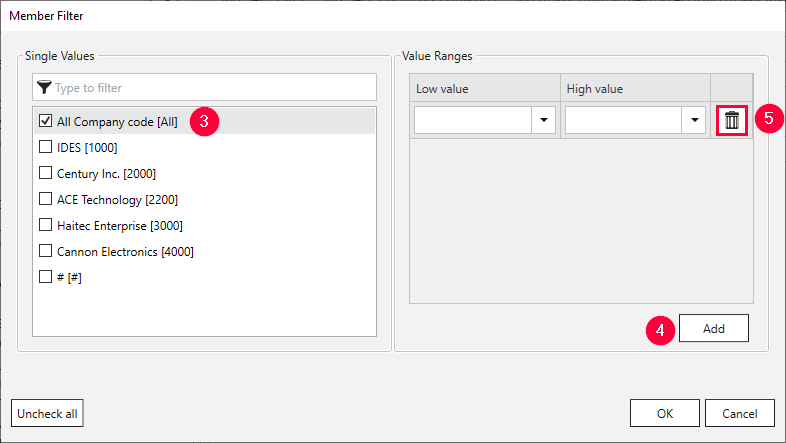
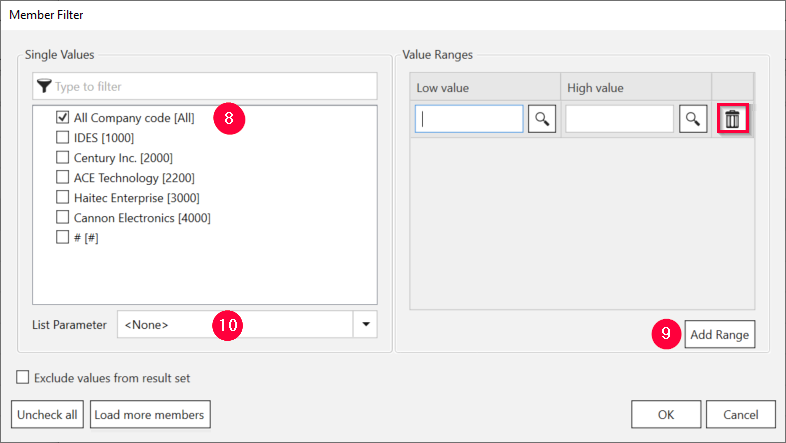
new screenshot for list parameter

diff --git a/_includes/_content/de/bw-infocubes-und-bex-queries/eine-bw-cube-quelle-definieren.md b/_includes/_content/de/bw-infocubes-und-bex-queries/eine-bw-cube-quelle-definieren.md
@@ -52,10 +52,11 @@ Das erste Verzeichnis enthält alle Messwerte (Kennzahlen) (6). Die folgenden Ve
 ### Einstellen eines Dimensionsfilters 
 1. Klicken Sie mit der rechten Maustaste auf eine Dimension. Die Schaltfläche **[Edit Filter]** erscheint.
 ![Query Filter](/img/content/cube-query-filter.png){:class="img-responsive"}
-2. Klicken Sie **[Edit Filter]**. Das Fenster "Member Filter" öffnet sich. Sie können *Einzelne Werte (Single Values)* setzen und / oder *Wertebereiche (Value Ranges)* definieren.
+2. Klicken Sie **[Edit Filter]**. Das Fenster "Member Filter" öffnet sich. Sie können *Einzelne Werte (Single Values)* setzen, *Wertebereiche (Value Ranges)* definieren oder *Listenparameter* selektieren.
 ![Query Filter Define](/img/content/xu/cube-filter.png){:class="img-responsive"}
 3. Wählen Sie einen einzelnen Wert (8) oder klicken Sie auf **[Add]** (9), um Wertebereiche hinzuzufügen. 
-4. Definieren Sie die Werte für die Filterung (10). Dynamische Parameter werden unterstützt, siehe [Laufzeitparameter](./edit-runtime-parameters). Wenn nötig, löschen Sie Filter über den **[Remove]**-Button (Mülltonnensymbol).
+4. Definieren Sie die Werte für die Filterung. Dynamische Parameter werden unterstützt, siehe [Laufzeitparameter](./edit-runtime-parameters). Um eine Liste von Werten zu verwenden, die zur Laufzeit gesetzt wird, wählen Sie einen Listenparameter aus der Drop-down-Liste *List Parameter* (10).
+Wenn nötig, löschen Sie Filter über den **[Remove]**-Button (Mülltonnensymbol).
 5. Klicken Sie auf **[OK]** zum Bestätigen. Das Fenster "Member Filter" schließt sich.
 
 Wenn ein Filter definiert ist, erscheint ein Filtersymbol in der Metadatenstruktur.

diff --git a/_includes/_content/en/bw-infocubes-and-bex-queries/bw-cube-extraction-define.md b/_includes/_content/en/bw-infocubes-and-bex-queries/bw-cube-extraction-define.md
@@ -57,10 +57,10 @@ The following directories correspond to dimensions and often contain additional 
 ### Setting a Dimension Filter 
 1. Right-click a dimension. The button **[Edit Filter]** pops-up.
 ![Query Filter](/img/content/cube-query-filter.png){:class="img-responsive"}
-2. Click **[Edit Filter]**. The window "Member Filter" opens. You can set *Single Values* and / or define *Value Ranges*.
+2. Click **[Edit Filter]**. The window "Member Filter" opens. You can set *Single Values*, define *Value Ranges* or select a *List Parameter*.
 ![Query Filter Define](/img/content/xfa/xfa_cube-query-filter-def.png){:class="img-responsive"}
-3. Select a single value (8) or  click **[Add]** (9) to add value ranges.
-4. Define values for filtering (10). Dynamic parameters are supported, see [Runtime Parameters](./edit-runtime-parameters). If needed, delete filters using the **[Remove]** button (dustbin symbol).
+3. Select a single value (8) or click **[Add]** (9) to add value ranges.
+4. Define values for filtering. Dynamic parameters are supported, see [Runtime Parameters](./edit-runtime-parameters). To use a dynamic list of values, select a *List Parameter* from the drop-down-menu (10). If needed, delete filters using the **[Remove]** button (dustbin symbol).
 5. Click **[OK]** to confirm. The "Member Filter" window closes.
 
 When filters are applied, a filter symbol appears in the metadata structure.
